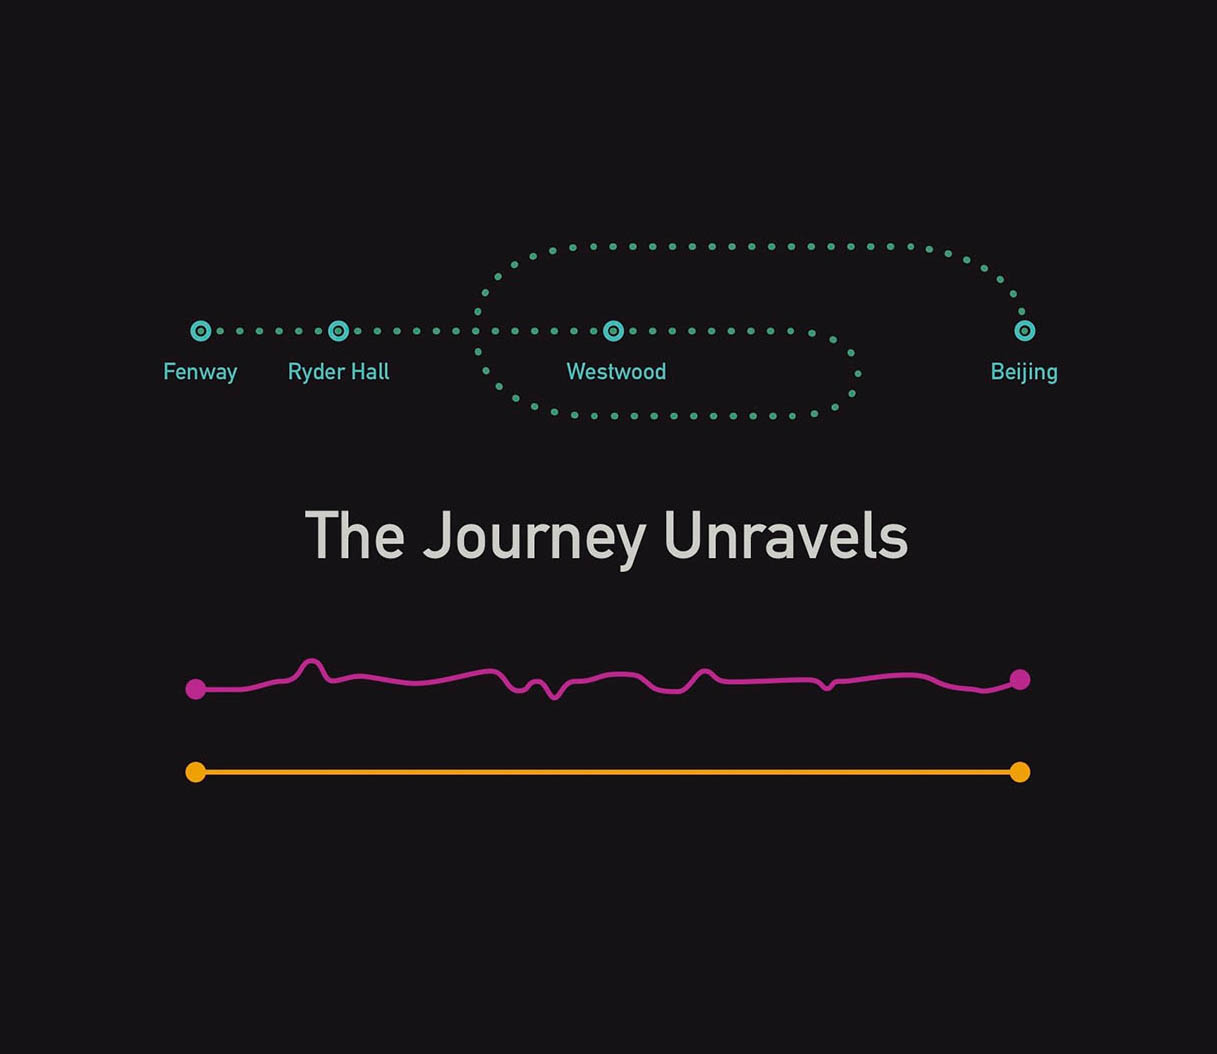
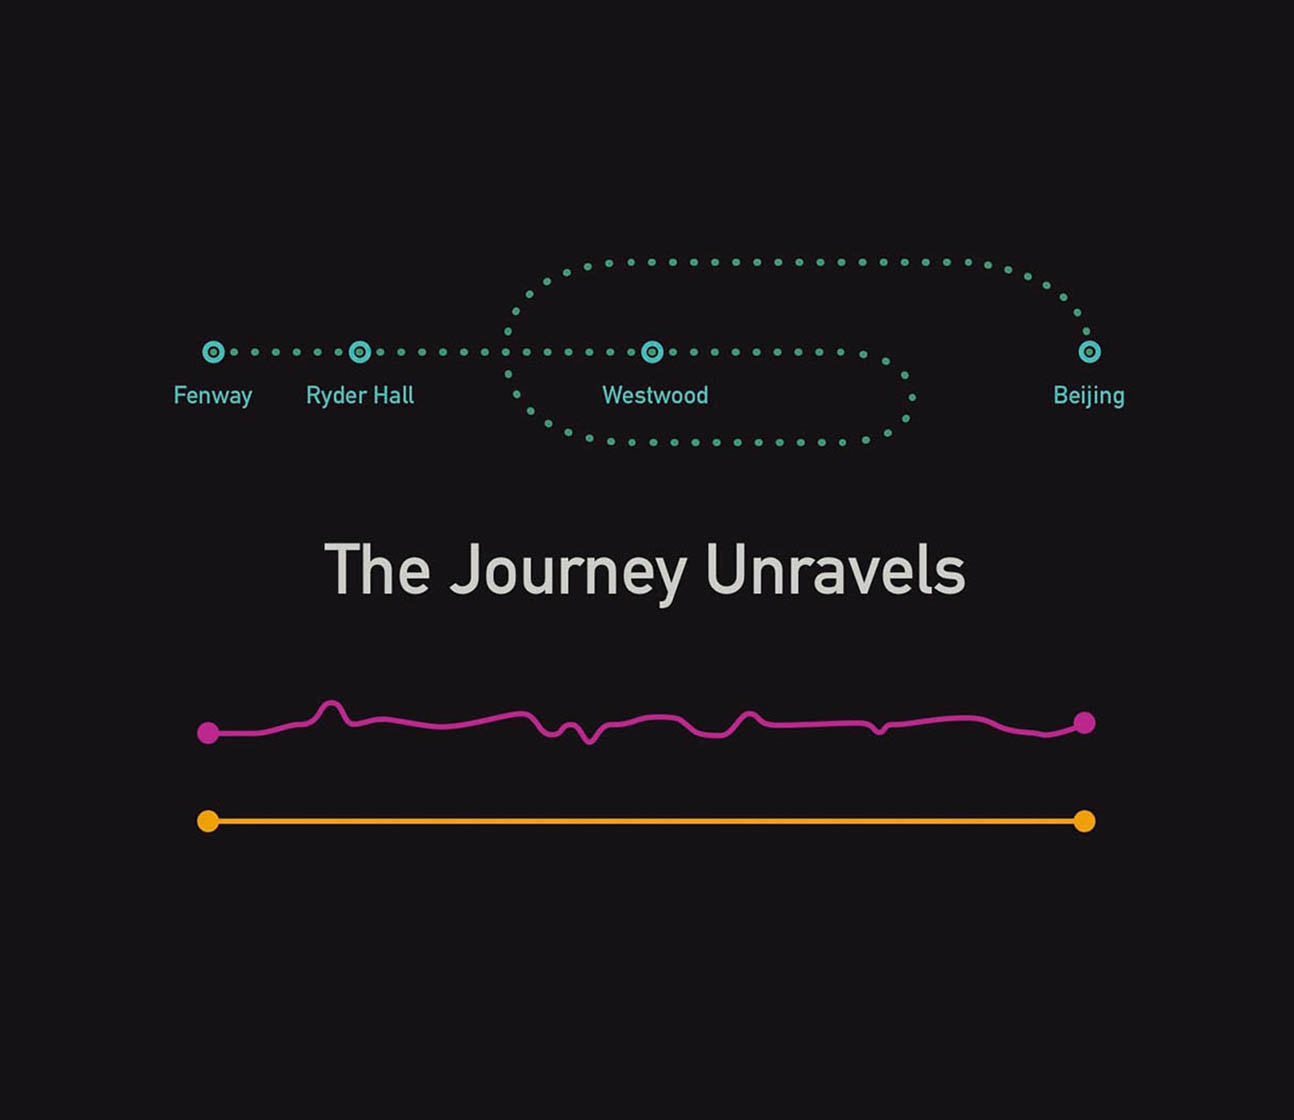
Safari-fix
Spacing and font issues in safari fixed

diff --git a/style.css b/style.css
@@ -2,11 +2,15 @@
 
 @font-face {
 	font-family: 'Moon Bold';
-	src: url("fonts/MoonBold.otf") format("opentype"); }
+    src: url("fonts/MoonBold.otf") format("opentype");
+    src: url("fonts/MoonBold.woff") format("woff");
+    }
 
 @font-face {
 	font-family: 'Moon Light';
-	src: url("fonts/MoonLight.otf") format("opentype"); }
+    src: url("fonts/MoonLight.otf") format("opentype");
+    src: url("fonts/MoonLight.woff") format("woff");
+	 }
 
 @font-face {
 	font-family: 'Avenir Next Condensed Medium';
@@ -18,6 +22,9 @@ body {
     font-size: 100%
 }
 
+a:hover, a:focus, a:active {
+    text-decoration: none;    
+}
 
 .page {
 	position: relative;
@@ -38,8 +45,8 @@ body {
 }
 
 .image_page .wrapper {
-	margin-left: 15vw;
-	margin-right: 20.5vw;
+	margin-left: 5.7rem;
+	margin-right: 20vw;
 }
 
 #glad .wrapper {
@@ -91,16 +98,23 @@ h2 {
 	letter-spacing: 1px; }
 
 h3 {
-	font: 12px 'Moon', sans-serif;
+	font: 12px 'Moon Bold', sans-serif;
 	color: #0093A3;
 	letter-spacing: 0.6px;
 	padding-bottom: 2rem;
 	height: 3.8rem; }
 
+/*
+h3 span:first-of-type {
+    font: 12px 'Moon Bold', sans-serif;
+}
+*/
+
+
 .ti-cursor { padding-right: 4px; }
 
 h4 {
-	font: 12px 'Moon', sans-serif;
+	font: 12px 'Moon Bold', sans-serif;
 	color: #0093A3;
     letter-spacing: 0.6px;
 	line-height: 0.6rem; }
@@ -200,12 +214,12 @@ h3 > span { float: left; }
     padding-bottom: 1.4rem; }
     
     h3 {
-        font: 1.6rem 'Moon', sans-serif;
+        font: 1.6rem 'Moon Bold', sans-serif;
     }
 
 	.shrink.piece_page .wrapper {
 		margin-top: -3vh;
-		margin-left: 3.8rem;
+		margin-left: 2.8rem;
 	}
 
     .resume-points {
@@ -254,7 +268,7 @@ h3 > span { float: left; }
 
 	.image_page .wrapper {
 		margin-left: 21vw;
-		margin-right: 12vw;
+		margin-right: 13vw;
 	}
 
 	.wrapper {
@@ -478,7 +492,8 @@ h3 > span { float: left; }
     padding: 1.2rem 0;
     font: 1.2rem 'Moon Light', sans-serif;
 	letter-spacing: 1px;
-    width: 8rem; }
+    width: 8rem;
+}
 
 .nav-link a {
 	position: relative;
@@ -523,7 +538,9 @@ h3 > span { float: left; }
 	font-size: 4rem;}
 
 #nav-plus > .nav-link {
-	float: left;
+	float: right;
+    position: fixed;
+    right: -4rem;
 }
 
 /* NAV ANIMATIONS */
@@ -623,6 +640,11 @@ h3 > span { float: left; }
     right: -120px;
 	top: 35rem;}
 
+    #nav-plus > .nav-link {
+        right: -1rem;
+        top: 2.2rem;
+    }
+    
 	.nav-link {
 		padding: .8rem 3rem 0 0;
 		background-color: none;
@@ -673,6 +695,11 @@ h3 > span { float: left; }
 		z-index: 4;
         /* border-bottom: white .5rem solid;*/ }
 
+        #nav-plus > .nav-link {
+        right: 2rem;
+        top: 4rem;
+    }
+    
 	.nav-link {
         font-size: 1.2rem;
 		padding: 0 1.8rem;
@@ -767,6 +794,10 @@ h3 > span { float: left; }
 	-ms-flex-wrap: wrap;
 	flex-wrap: wrap;
 	padding-bottom: .5rem; }
+
+.row:before, .row:after{
+display:inline-block;
+}
 
 /*
 .col-sm, .col-md, .col-lg, .col-xl {
@@ -936,7 +967,7 @@ h3 > span { float: left; }
 	opacity: 0;
 	font-size: 0; }
 
-.shrink h4 { opacity: 0; }
+.shrink h4, .shrink h2 { opacity: 0; }
 
 .shrink {
 	opacity: 1;
@@ -1009,7 +1040,6 @@ h3 > span { float: left; }
 	white-space: nowrap;
 	transform: rotate(-90deg);
 	}
-    
 }
 
 @media (min-width: 768px) {
@@ -1020,4 +1050,5 @@ h3 > span { float: left; }
 		margin-top: 3rem; }
 
  	.shrink h4 { opacity: 1; }
+    .shrink h2 { opacity: 1; }
 }

diff --git a/index.html b/index.html
@@ -6,6 +6,11 @@
 	<meta charset="UTF-8">
 	<meta name="description" content="">
 	<meta name="viewport" content="width=device-width" initial-scale=1”>
+  <meta http-equiv="X-UA-Compatible" content="IE=edge">
+  <!--[if lt IE 9]>
+    <script src="https://oss.maxcdn.com/html5shiv/3.7.2/html5shiv.min.js"></script>
+    <script src="https://oss.maxcdn.com/respond/1.4.2/respond.min.js"></script>
+  <![endif]-->
 	<title>Homepage | Maggie Zhang Design</title>
     <link rel="stylesheet" href="https://use.typekit.net/rwf7agt.css">
     
